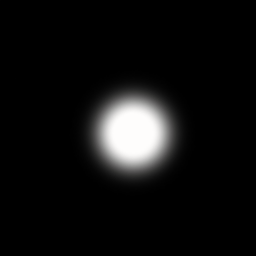
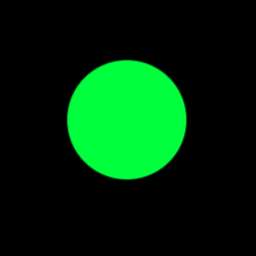
process

Changed region(s): [[0.25, 0.2188, 0.75, 0.7188]]

diff --git a/src/chapter06/src/Entities/particles.js b/src/chapter06/src/Entities/particles.js
@@ -1,28 +1,40 @@
 import * as THREE from 'three'
 
 export const createParticles = (root) => {
-    const material = new THREE.PointsMaterial( { 
-        size: 5, 
-        map: root.assets.flareSrc, 
-        //blending: THREE.AdditiveBlending, 
-        depthTest: false, 
+    const MAX_ALPHA = 1
+    const MIN_SPD_ALPHA = .0025
+    const MAX_SPD_RND_ALPHA =  0.005
+
+    const MAX_SPD = 0.05
+    const MAX_SPD_HALF = MAX_SPD / 2
+
+
+    const material = new THREE.PointsMaterial( {
+        fog: false,
+        size: 10,
+        color: 0x000000,
+        //alphaTest: .5,
+        map: root.assets.flareSrc,
+        //blending: THREE.AdditiveBlending,
+        depthTest: true,
         transparent: true,
         alphaMap: root.assets.flareSrc,
+        vertexColors: true,
+        side: THREE.DoubleSide,
     } );
-    material.color.setHSL(1, 1, 1)
     
+
+    const centerPoint = [0, -25, -0]
+    const pointsData = []
+
     const
-    W = 100,
-    H = 20,
-    Z = 50,
-    N = 15
+        W = 3000,
+        H = 25,
+        Z = 3000,
+        N = 1000
 
-
-    const data = []
-    const centerPoint = [0, 0, 0]
-    const resetSingleParticle = p => {
-        p.color.a = 0
-        p.userData = {
+    const resetSingleData = () => {
+        const userData = {
             spdX: Math.random() * MAX_SPD - MAX_SPD_HALF,
             spdY: Math.random() * MAX_SPD - MAX_SPD_HALF,
             spdZ: Math.random() * MAX_SPD - MAX_SPD_HALF,
@@ -30,126 +42,80 @@ export const createParticles = (root) => {
             isMustStartHide: false,
             countIterations: Math.floor(Math.random() * 3 + 1)
         }
-        p.position.x = Math.random() * W - W / 2 + centerPoint[0]
-        p.position.y = Math.random() * H - H / 2 + centerPoint[1]
-        p.position.z = Math.random() * Z - Z / 2 + centerPoint[2]
+        return userData
     }
 
+    const vertices = []
+    const colors = []
+    for ( let i = 0; i < N; i ++ ) {
+        const x = Math.random() * (W) + centerPoint[0]
+        const y = Math.random() * (H) + centerPoint[1]
+        const z = Math.random() * (Z) + 200 + centerPoint[2]
+        vertices.push( x, y, z )
 
+        colors.push(0, 0, 0, 1)
 
-
-    const geometry = new THREE.BufferGeometry();
-    const vertices = [];
-
-    for ( let i = 0; i < 100; i ++ ) {
-        const x = Math.random() * 300 - 150;
-        const y = Math.random() * 300 - 150 - 45;
-        const z = Math.random() * 300 - 150;
-        vertices.push( x, y, z );
+        pointsData.push({
+            index: i,
+            ...resetSingleData()
+        })
     }
-    geometry.setAttribute( 'position', new THREE.Float32BufferAttribute( vertices, 3 ) );
-    const particles = new THREE.Points(geometry, material);
-
-    //scene.add( particles );
-
-//    const MAX_ALPHA = .45
-//    const MIN_SPD_ALPHA = .0025
-//    const MAX_SPD_RND_ALPHA =  0.005
-
-//    const MAX_SPD = 0.015
-//    const MAX_SPD_HALF = MAX_SPD / 2
-
-//    const centerPoint = [0, 0, 0]
-
-//    const particleSystem = new BABYLON.ParticleSystem("particles", N, scene)
-//    particleSystem.particleTexture = new BABYLON.Texture(textureSrc, scene)
-//    particleSystem.blendMode = BABYLON.BaseParticleSystem.BLENDMODE_ADD
-//    particleSystem.color1 = new BABYLON.Color4(0.8, 0.8, 0.7, 0)
-//    particleSystem.emitRate = 1000
-
-//    /** don't pure ..  ********************************/
-//    const resetSingleParticle = p => {
-//        p.color.a = 0
-//        p.userData = {
-//            spdX: Math.random() * MAX_SPD - MAX_SPD_HALF,
-//            spdY: Math.random() * MAX_SPD - MAX_SPD_HALF,
-//            spdZ: Math.random() * MAX_SPD - MAX_SPD_HALF,
-//            spdAlpha: Math.random() * MAX_SPD_RND_ALPHA + MIN_SPD_ALPHA,
-//            isMustStartHide: false,
-//            countIterations: Math.floor(Math.random() * 3 + 1)
-//        }
-//        p.position.x = Math.random() * W - W / 2 + centerPoint[0]
-//        p.position.y = Math.random() * H - H / 2 + centerPoint[1]
-//        p.position.z = Math.random() * Z - Z / 2 + centerPoint[2]
-//    }
+    const geometry = new THREE.BufferGeometry()
+    geometry.setAttribute('position', new THREE.Float32BufferAttribute(vertices, 3))
+    geometry.setAttribute('color', new THREE.Float32BufferAttribute(colors, 4))
+    const particles = new THREE.Points(geometry, material)
 
 
-//    let isUpdate = true
-//    particleSystem.updateFunction = ps => {
-//        if (!isUpdate) {
-//            return
-//        }
-
-//        /** don't create new particles, use only exists */
-//        if (ps.length > N) {
-//            particleSystem.emitRate = 0
-//        }
-
-//        for (let i = 0; i < ps.length; ++i) {
-//            /** start init particle data ***************/
-//            if (!ps[i].userData) {
-//                resetSingleParticle(ps[i])
-//            }
-
-//            /** update position ************************/
-//            ps[i].position.x += ps[i].userData.spdX
-//            ps[i].position.y += ps[i].userData.spdY
-//            ps[i].position.z += ps[i].userData.spdZ
-
-//            /** update alpha and reset if life complete */
-//            if (!ps[i].userData.isMustStartHide) {
-//                ps[i].color.a += ps[i].userData.spdAlpha
-//                if (ps[i].color.a > MAX_ALPHA) {
-//                    ps[i].userData.isMustStartHide = true
-//                }
-//            }
-
-//            if (ps[i].userData.isMustStartHide) {
-//                ps[i].color.a -= ps[i].userData.spdAlpha
-
-//                if (ps[i].color.a <= 0) {
-//                    ps[i].userData.countIterations -= 1
-
-//                    if (ps[i].userData.countIterations > 0) {
-//                        ps[i].userData.isMustStartHide = false
-//                    } else {
-//                        resetSingleParticle(ps[i])
-//                    }
-//                }
-//            }
-//        }
-//    }
-
-//    particleSystem.start()
+    const update = () => {
+        for (let i = 0; i < pointsData.length; ++i) {
+            const data = pointsData[i]
+            geometry.attributes.position.array[i * 3] += data.spdX
+            geometry.attributes.position.array[i * 3 + 1] += data.spdY
+            geometry.attributes.position.array[i * 3 + 2] += data.spdZ
 
 
+            if (!data.isMustStartHide) {
+                geometry.attributes.color.array[i * 4 + 3] += data.spdAlpha
+
+                if (geometry.attributes.color.array[i * 4 + 3] > MAX_ALPHA) {
+                    data.isMustStartHide = true
+                }
+            }
+
+            if (data.isMustStartHide) {
+                geometry.attributes.color.array[i * 4 + 3] -= data.spdAlpha
+
+                if (geometry.attributes.color.array[i * 4 + 3] <= 0) {
+                    data.isMustStartHide = false
+                    data.countIterations--
+                    if (data.countIterations === 0) {
+                        Object.assign(data, resetSingleData())
+                        geometry.attributes.position.array[i * 3] = Math.random() * (W) //- (W / 2) + centerPoint[0]
+                        geometry.attributes.position.array[i * 3 + 1] = Math.random() * (H) - (H / 2) + centerPoint[1]
+                        geometry.attributes.position.array[i * 3 + 2] = Math.random() * (Z) + 200 //- (Z / 2) + centerPoint[2]
+                    }
+                }
+            }
+
+            geometry.attributes.position.needsUpdate = true
+            geometry.attributes.color.needsUpdate = true
+        }
+    }
 
 
    return {
        m: particles, 
        stop: () => {
-           isUpdate = false
+          // isUpdate = false
        },
        start: () => {
-           isUpdate = true
+          // isUpdate = true
        },
        setCenterPos: (x, y, z) => {
-           centerPoint[0] = x
-           centerPoint[1] = y
-           centerPoint[2] = z
+           //centerPoint[0] = x
+           //centerPoint[1] = y
+           //centerPoint[2] = z
        },
-       update: () => {
-
-       }
+       update,
    }
 }

diff --git a/src/chapter06/src/actions/actions.js b/src/chapter06/src/actions/actions.js
@@ -68,8 +68,8 @@ export class actions {
         root.statue = statue
 
 
-        const p = createParticles(root)
-        studio.addToScene(p.m)
+        const points = createParticles(root)
+        studio.addToScene(points.m)
 
 
         /** game state */
@@ -96,7 +96,7 @@ export class actions {
 
 
         root.emitter.subscribe('playerMove')(() => {
-            p.setCenterPos(
+            points.setCenterPos(
                 player.mesh.position.x,
                 player.mesh.position.y,
                 player.mesh.position.z,
@@ -109,7 +109,7 @@ export class actions {
         frameUpdater.on(data => {
             TWEEN.update()
             system_PlayerMoveOnLevel.update(data)
-            p.update()
+            points.update()
             studio.drawFrame()
         })
 
